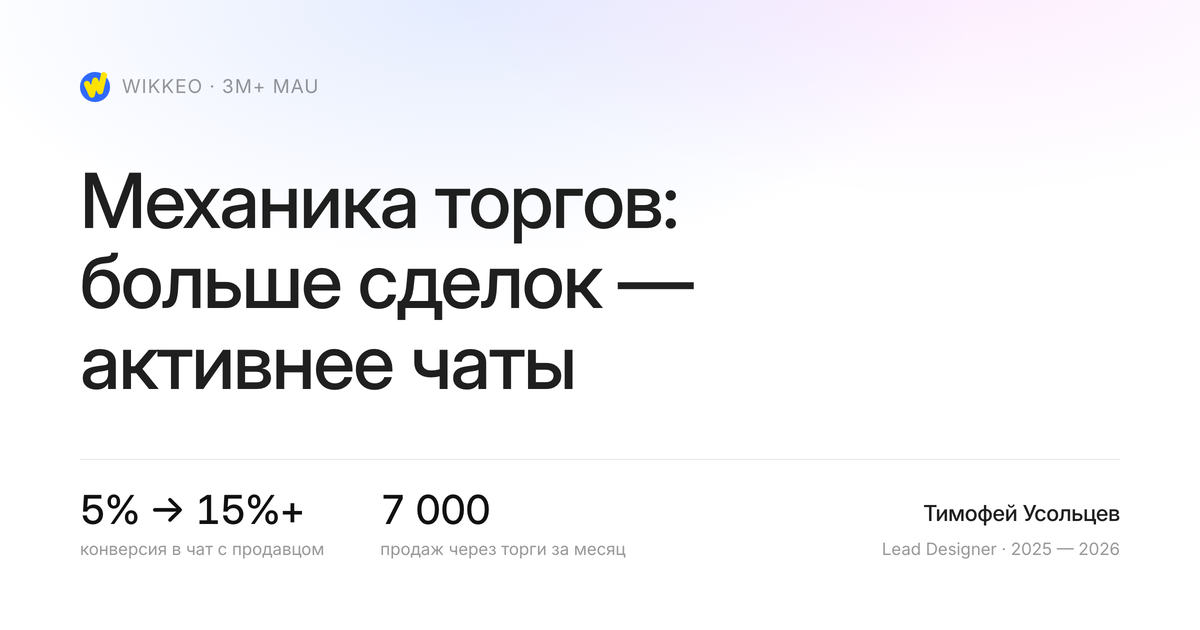
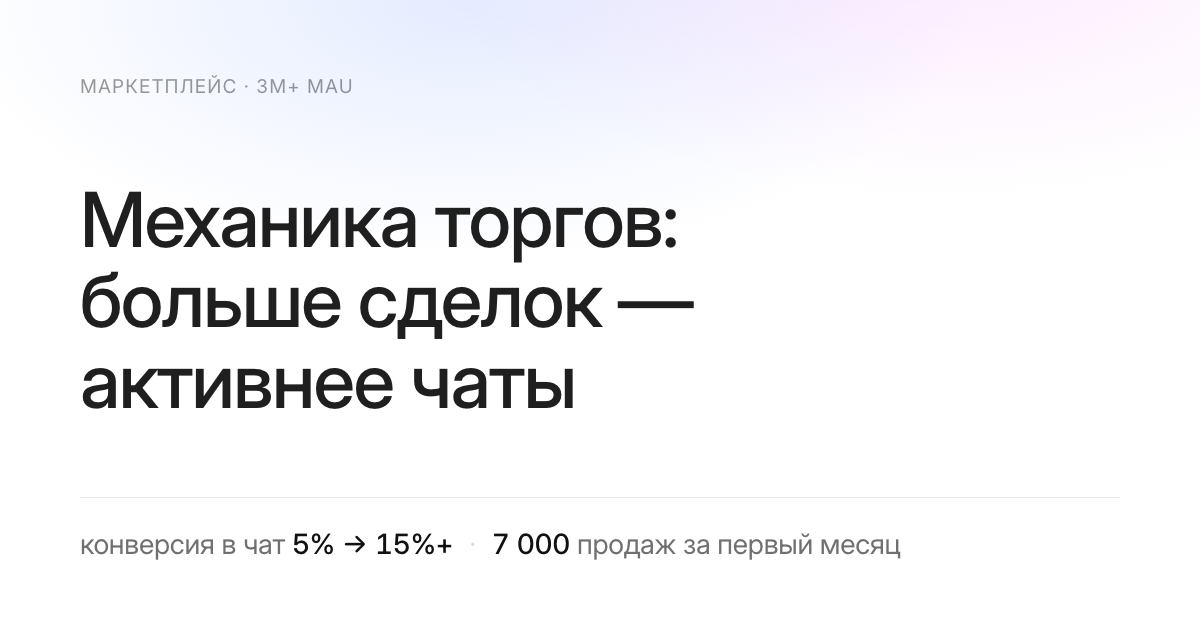
feat(og): превью без имени и названий компаний, метрики одной строкой
В карточках и мета-тегах остаются только результат и масштаб продукта.
Подпись автора и логотипы сняты, цифры вышли в одну строку под заголовком —
в ленте превью читается за секунду, а колонки с подписями в эту секунду
не укладывались.

Changed region(s): [[0.0617, 0.2714, 0.5858, 0.6635], [0.0617, 0.7841, 0.925, 0.9048], [0.0617, 0.0905, 0.3083, 0.181]]

diff --git a/case-wikkeo-monetization.html b/case-wikkeo-monetization.html
@@ -8,16 +8,16 @@
 <script>document.documentElement.classList.add('js')</script>
 
 <meta property="og:type" content="article">
-<meta property="og:title" content="Первая монетизация маркетплейса — WIKKEO">
-<meta property="og:description" content="0 → 1 платных продуктов, 80% расходов площадки покрыла монетизация.">
+<meta property="og:title" content="Первая монетизация маркетплейса">
+<meta property="og:description" content="0 → 1 платный продукт · 80% расходов покрывает монетизация">
 <meta property="og:locale" content="ru_RU">
-<meta property="og:site_name" content="Тимофей Усольцев">
+<meta property="og:site_name" content="Портфолио продуктового дизайнера">
 <!-- Превью ссылки. Адрес абсолютный — он же меняется вместе с og:url
      при переезде на usoltsev.design. -->
 <meta property="og:image" content="https://timofeyusoltsev.github.io/assets/og/og-monetization.png">
 <meta property="og:image:width" content="1200">
 <meta property="og:image:height" content="630">
-<meta property="og:image:alt" content="WIKKEO: первая монетизация маркетплейса. 0 → 1 платный продукт, 80% расходов покрыто">
+<meta property="og:image:alt" content="Первая монетизация маркетплейса: 0 → 1 платный продукт, 80% расходов покрывает монетизация">
 <meta name="twitter:card" content="summary_large_image">
 <meta name="theme-color" content="#FFFFFF">
 

diff --git a/case-premier-subscription.html b/case-premier-subscription.html
@@ -8,16 +8,16 @@
 <script>document.documentElement.classList.add('js')</script>
 
 <meta property="og:type" content="article">
-<meta property="og:title" content="Единая подписка из трех сервисов — PREMIER">
-<meta property="og:description" content="Конверсия покупки +14%, средний чек +21%, отток −11%, LTV +21% за первые 3 месяца.">
+<meta property="og:title" content="Единая подписка из трех сервисов">
+<meta property="og:description" content="Конверсия покупки +14% · средний чек +21% · отток −11%">
 <meta property="og:locale" content="ru_RU">
-<meta property="og:site_name" content="Тимофей Усольцев">
+<meta property="og:site_name" content="Портфолио продуктового дизайнера">
 <!-- Превью ссылки. Адрес абсолютный — он же меняется вместе с og:url
      при переезде на usoltsev.design. -->
 <meta property="og:image" content="https://timofeyusoltsev.github.io/assets/og/og-subscription.png">
 <meta property="og:image:width" content="1200">
 <meta property="og:image:height" content="630">
-<meta property="og:image:alt" content="PREMIER: единая подписка из трех сервисов. +14% конверсия, +21% средний чек, −11% отток">
+<meta property="og:image:alt" content="Единая подписка из трех сервисов: конверсия покупки +14%, средний чек +21%, отток −11%">
 <meta name="twitter:card" content="summary_large_image">
 <meta name="theme-color" content="#FFFFFF">
 

diff --git a/index.html b/index.html
@@ -8,16 +8,16 @@
 <script>document.documentElement.classList.add('js')</script>
 
 <meta property="og:type" content="profile">
-<meta property="og:title" content="Тимофей Усольцев">
-<meta property="og:description" content="PREMIER, WIKKEO, GITVERSE. Проектирую сценарии, которые двигают выручку.">
+<meta property="og:title" content="Проектирую сценарии, которые двигают выручку">
+<meta property="og:description" content="20M+ MAU · конверсия в чат 5% → 15% · средний чек +21%">
 <meta property="og:locale" content="ru_RU">
-<meta property="og:site_name" content="Тимофей Усольцев">
+<meta property="og:site_name" content="Портфолио продуктового дизайнера">
 <!-- Превью ссылки. Адрес абсолютный — он же меняется вместе с og:url
      при переезде на usoltsev.design. -->
 <meta property="og:image" content="https://timofeyusoltsev.github.io/assets/og/og-home.png">
 <meta property="og:image:width" content="1200">
 <meta property="og:image:height" content="630">
-<meta property="og:image:alt" content="Тимофей Усольцев — продуктовый дизайнер. 20M+ MAU, +21% LTV, 80% бюджета покрыла монетизация">
+<meta property="og:image:alt" content="Проектирую сценарии, которые двигают выручку. 20M+ MAU, конверсия в чат 5% → 15%, средний чек +21%">
 <meta name="twitter:card" content="summary_large_image">
 <meta name="theme-color" content="#FFFFFF">
 

diff --git a/case-wikkeo-bargaining.html b/case-wikkeo-bargaining.html
@@ -8,16 +8,16 @@
 <script>document.documentElement.classList.add('js')</script>
 
 <meta property="og:type" content="article">
-<meta property="og:title" content="Механика торгов — WIKKEO">
-<meta property="og:description" content="Конверсия в чат с продавцом 5% → 15%+, 7 000 продаж через торги за первый месяц.">
+<meta property="og:title" content="Механика торгов: больше сделок — активнее чаты">
+<meta property="og:description" content="Конверсия в чат 5% → 15%+ · 7 000 продаж за первый месяц">
 <meta property="og:locale" content="ru_RU">
-<meta property="og:site_name" content="Тимофей Усольцев">
+<meta property="og:site_name" content="Портфолио продуктового дизайнера">
 <!-- Превью ссылки. Адрес абсолютный — он же меняется вместе с og:url
      при переезде на usoltsev.design. -->
 <meta property="og:image" content="https://timofeyusoltsev.github.io/assets/og/og-bargaining.png">
 <meta property="og:image:width" content="1200">
 <meta property="og:image:height" content="630">
-<meta property="og:image:alt" content="WIKKEO: механика торгов. Конверсия в чат 5% → 15%+, 7 000 продаж за месяц">
+<meta property="og:image:alt" content="Механика торгов: конверсия в чат 5% → 15%+, 7 000 продаж за первый месяц">
 <meta name="twitter:card" content="summary_large_image">
 <meta name="theme-color" content="#FFFFFF">
 

diff --git a/case-premier-offline.html b/case-premier-offline.html
@@ -8,16 +8,16 @@
 <script>document.documentElement.classList.add('js')</script>
 
 <meta property="og:type" content="article">
-<meta property="og:title" content="Оффлайн-режим на мобильном — PREMIER">
-<meta property="og:description" content="Удержание +8%, отток −10%, вовлеченность +9%, DAU мобильных приложений +6%.">
+<meta property="og:title" content="Оффлайн-режим на мобильном">
+<meta property="og:description" content="Удержание +8% · вовлеченность +9% · отток −10%">
 <meta property="og:locale" content="ru_RU">
-<meta property="og:site_name" content="Тимофей Усольцев">
+<meta property="og:site_name" content="Портфолио продуктового дизайнера">
 <!-- Превью ссылки. Адрес абсолютный — он же меняется вместе с og:url
      при переезде на usoltsev.design. -->
 <meta property="og:image" content="https://timofeyusoltsev.github.io/assets/og/og-offline.png">
 <meta property="og:image:width" content="1200">
 <meta property="og:image:height" content="630">
-<meta property="og:image:alt" content="PREMIER: оффлайн-режим на мобильном. +8% удержание, −10% отток, +6% DAU">
+<meta property="og:image:alt" content="Оффлайн-режим на мобильном: удержание +8%, вовлеченность +9%, отток −10%">
 <meta name="twitter:card" content="summary_large_image">
 <meta name="theme-color" content="#FFFFFF">
 
